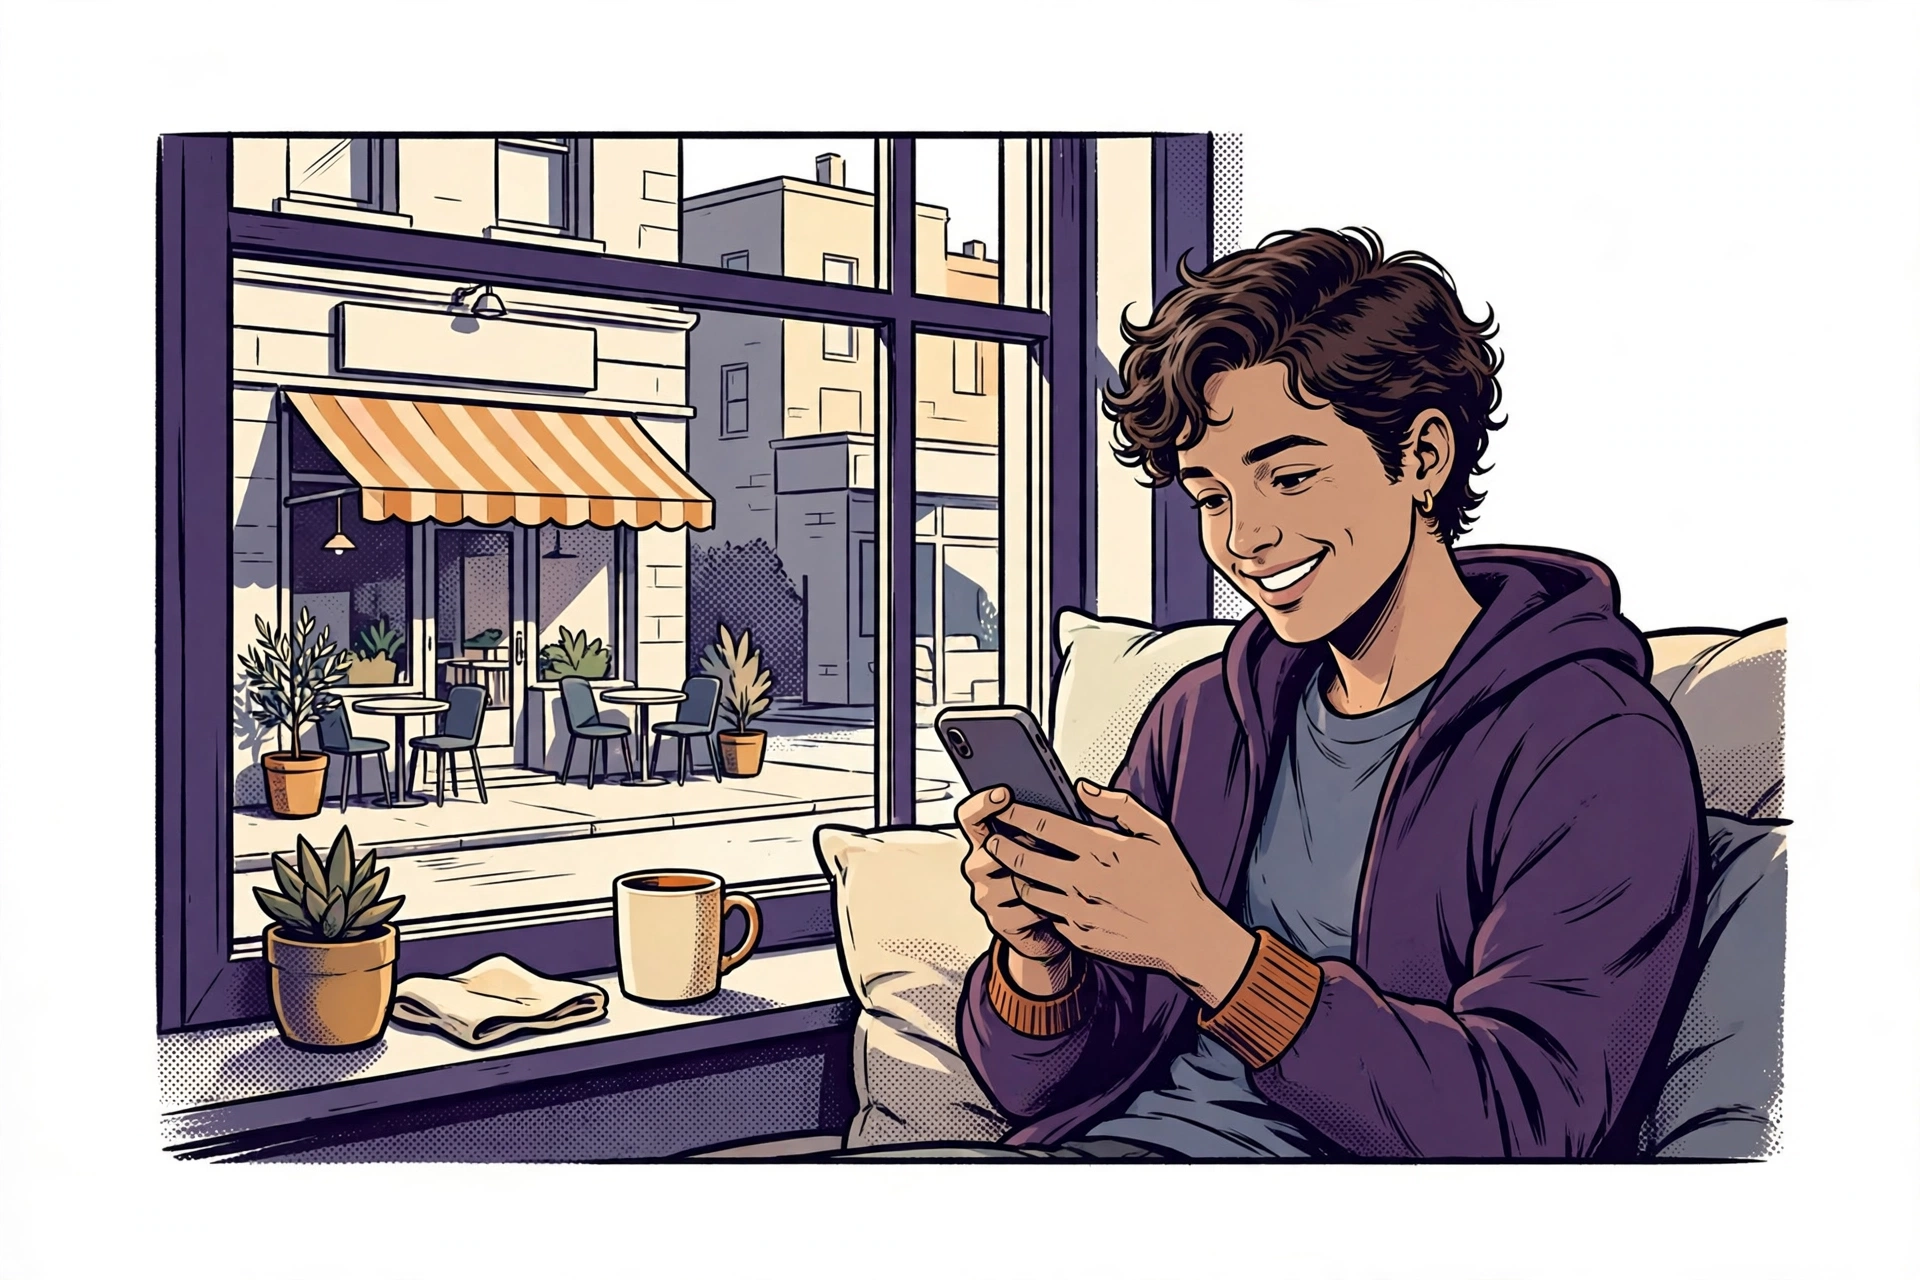
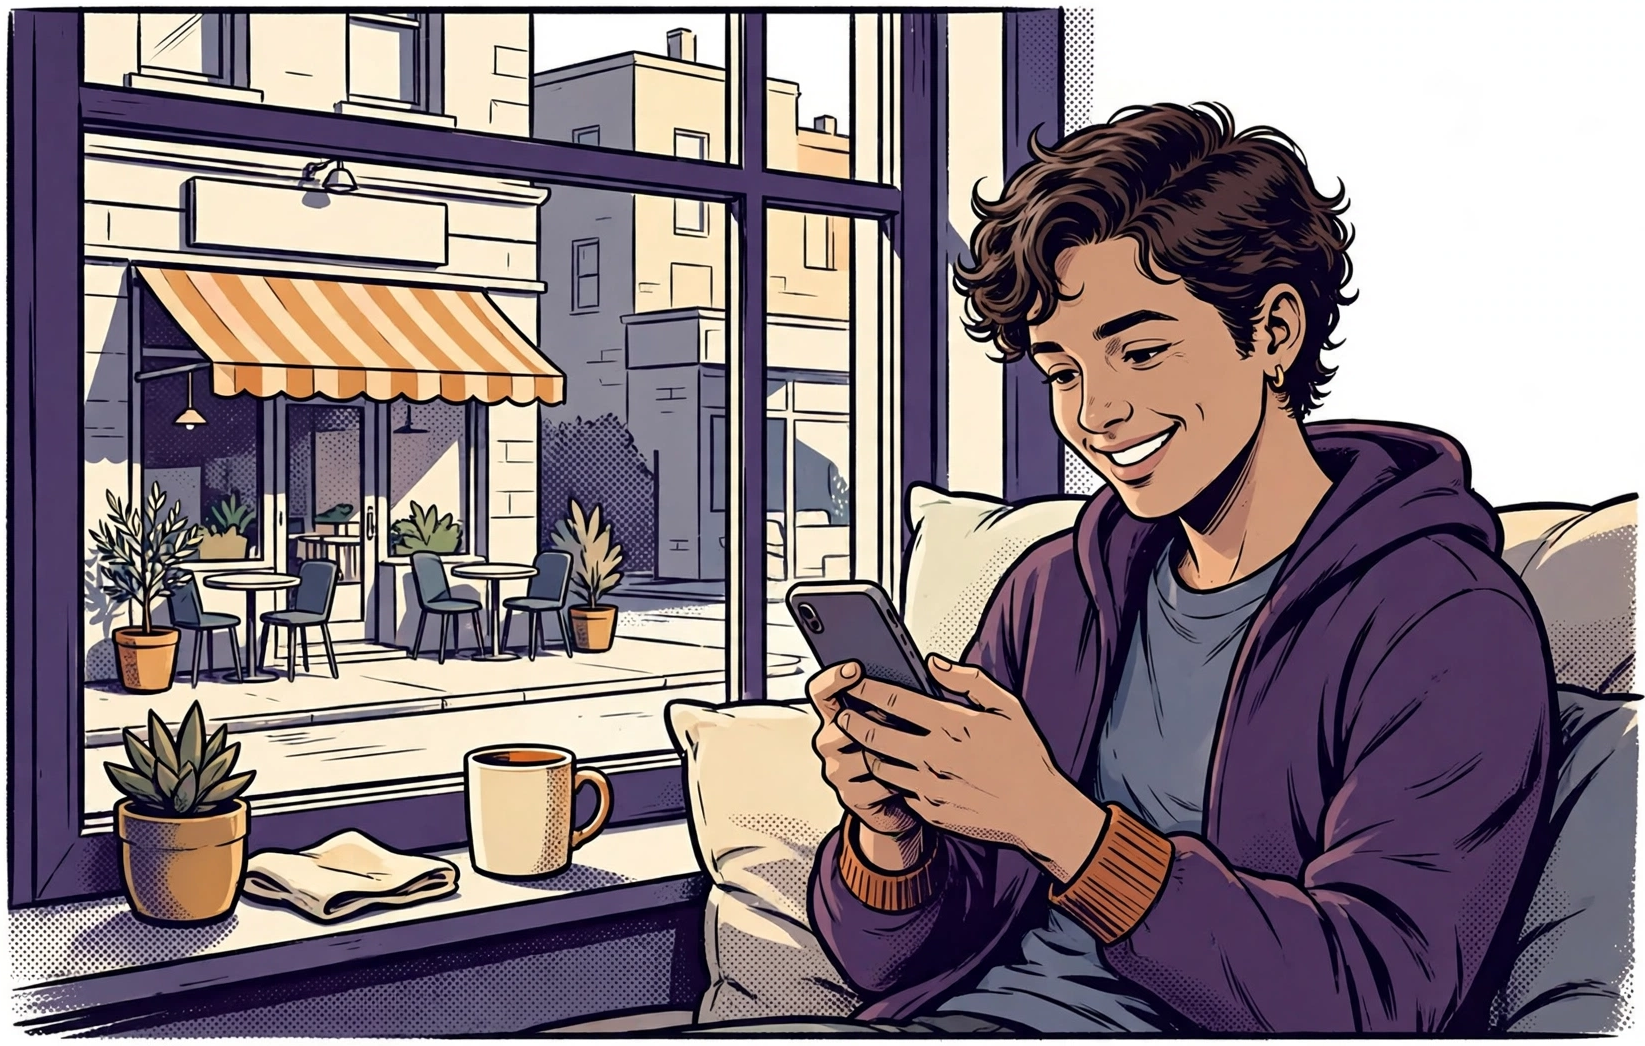
Comic images fill their frames; hero centred; door pictures share one frame

diff --git a/scripts/make_art.py b/scripts/make_art.py
@@ -59,6 +59,23 @@ SIZES = {"wide": [{"size": "1536x1024"}, {"extra_body": {"aspect_ratio": "16:9"}
          "square": [{"size": "1024x1024"}, {"extra_body": {"aspect_ratio": "1:1"}}, {}]}
 
 
+def trim(png: bytes, pad: int = 6) -> bytes:
+    """Crop the empty white margin the model sometimes leaves around a scene, so it fills its space."""
+    import io
+    import numpy as np
+    from PIL import Image
+    im = Image.open(io.BytesIO(png)).convert("RGB")
+    ink = np.asarray(im).min(axis=2) < 235
+    rows, cols = np.where(ink.mean(axis=1) > 0.02)[0], np.where(ink.mean(axis=0) > 0.02)[0]
+    if not len(rows) or not len(cols):
+        return png
+    box = (max(0, cols[0] - pad), max(0, rows[0] - pad), min(im.width, cols[-1] + pad + 1),
+           min(im.height, rows[-1] + pad + 1))
+    out = io.BytesIO()
+    im.crop(box).save(out, "PNG")
+    return out.getvalue()
+
+
 def generate(c, prompt: str, shape: str) -> bytes:
     last = None
     for extra in SIZES[shape]:
@@ -78,7 +95,13 @@ def main():
     ap.add_argument("--only", choices=sorted(set(ART) | set(PHOTOS)))
     ap.add_argument("--photo", action="store_true", help="photo-style pictures")
     ap.add_argument("--comic", action="store_true", help="comic-style pictures (the site look)")
+    ap.add_argument("--trim", action="store_true", help="just crop white margins off the existing pictures")
     args = ap.parse_args()
+    if args.trim:
+        for f in sorted((ASSETS / "home").glob("*.png")):
+            f.write_bytes(trim(f.read_bytes()))
+            print(f"trimmed {f.name}")
+        return
     out = ASSETS / "home"
     out.mkdir(parents=True, exist_ok=True)
     c = client()
@@ -89,7 +112,7 @@ def main():
             continue
         print(f"{name}: generating…", flush=True)
         try:
-            (out / f"{name}.png").write_bytes(generate(c, f"{scene} {style}", shape))
+            (out / f"{name}.png").write_bytes(trim(generate(c, f"{scene} {style}", shape)))
             print(f"  saved assets/home/{name}.png")
         except Exception as e:
             print(f"  failed: {str(e)[:400]}")

diff --git a/ui/common.py b/ui/common.py
@@ -163,6 +163,11 @@ CSS = """
   [data-testid="stElementContainer"]:has(.nh-home-section:empty) {display:none;}
   .st-key-nh-home-numbers, .st-key-nh-home-doors, .st-key-nh-home-steps, .st-key-nh-home-under,
   .st-key-nh-home-close {margin-top:3.5rem;}
+  /* pictures are part of the page, not something to open full screen */
+  [data-testid="stElementContainer"]:has([data-testid="stImage"]) [data-testid="stElementToolbar"] {display:none !important;}
+  [data-testid="stImage"] img {border-radius:14px;}
+  /* pictures in a row of cards share one frame shape, so the text under them starts level */
+  [class*="st-key-nh-card-"] [data-testid="stImage"] img {aspect-ratio:3/2; object-fit:cover; width:100%;}
 </style>
 """
 

diff --git a/views/home.py b/views/home.py
@@ -31,7 +31,7 @@ def _results(name: str):
 
 # ---------------------------------------------------------------- hero
 with st.container(key="nh-home-hero"):
-    left, right = st.columns([1.1, 1], gap="large")
+    left, right = st.columns([1.1, 1], gap="large", vertical_alignment="center")
     with left:
         st.markdown('<div class="nh-home-eyebrow">Scheduling + a neighborhood part-timer network</div>',
                     unsafe_allow_html=True)
